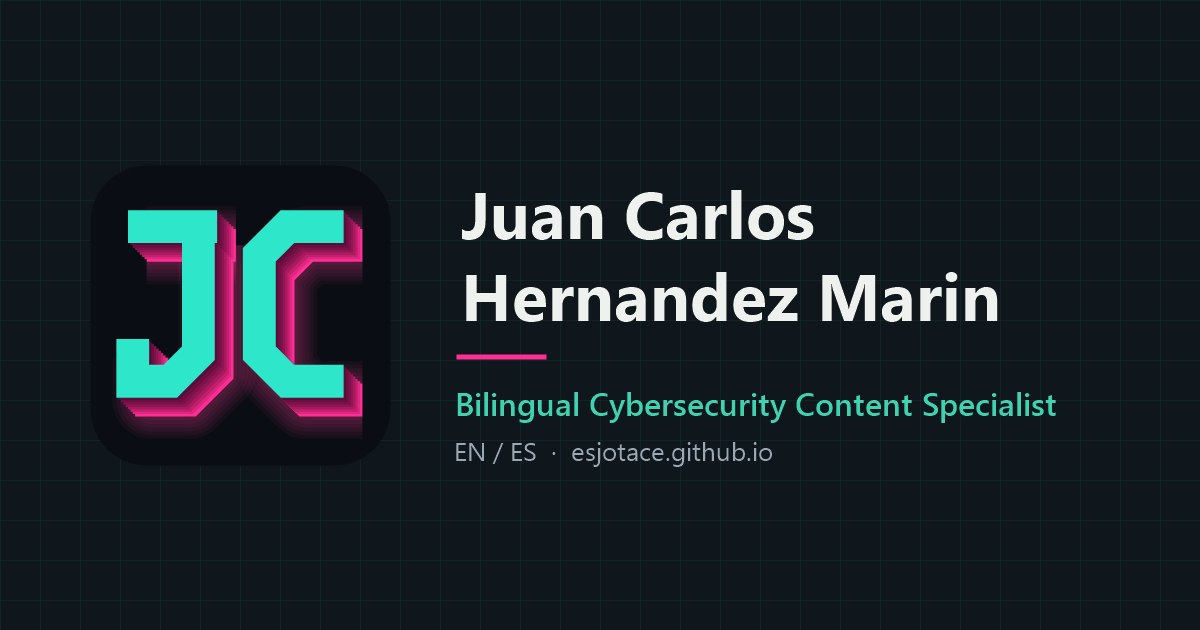
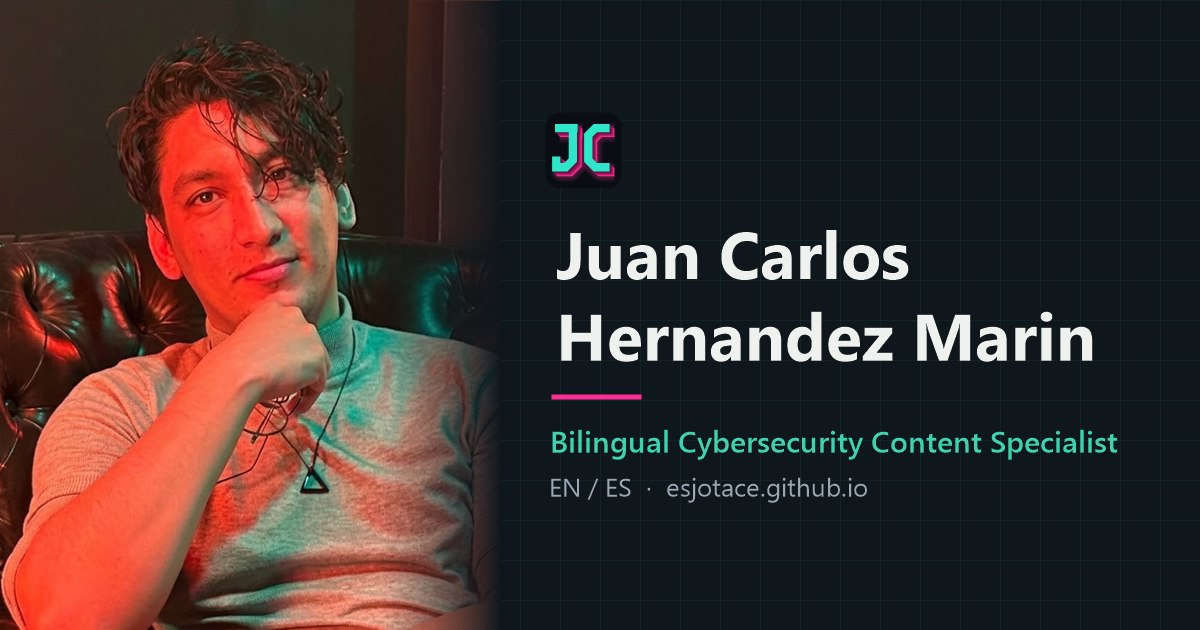
Add photos, thumbnails, lazy loading and keyboard fixes
- Preview card uses a photo; recommenders get round photos
- 600px infographic thumbnails; lazy loading and sizes on images
- Lightbox keeps focus on Close and returns it; screenshots open by keyboard
- Theme toggle reports its state with aria-pressed

diff --git a/index.html b/index.html
@@ -39,7 +39,7 @@
 html{scroll-behavior:smooth}
 body{margin:0;background:var(--bg);color:var(--ink);font:17px/1.6 Georgia,"Iowan Old Style","Palatino Linotype",serif;-webkit-font-smoothing:antialiased}
 a{color:inherit}
-img{max-width:100%}
+img{max-width:100%;height:auto}
 .sans{font-family:system-ui,-apple-system,"Segoe UI",Roboto,Helvetica,Arial,sans-serif}
 .wrap{max-width:1080px;margin:0 auto;padding-left:24px;padding-right:24px}
 @media(max-width:480px){.wrap{padding-left:16px;padding-right:16px}}
@@ -93,6 +93,7 @@ h2{font-size:clamp(28px,4vw,40px);letter-spacing:-.015em;margin:0 0 10px;line-he
 .proof-body > p strong{color:var(--ink)}
 .slide{margin:0 0 16px}
 .slide[hidden]{display:none}
+.slide .zoom{display:block;width:100%;padding:0;border:0;background:none;border-radius:8px;cursor:zoom-in}
 .slide img{display:block;width:100%;height:auto;aspect-ratio:1400/750;object-fit:contain;object-position:top;background:#202124;border-radius:8px;cursor:zoom-in}
 .slide figcaption{margin-top:8px;font-size:14px;color:var(--muted)}
 .slide-nav{display:flex;align-items:center;gap:12px}
@@ -135,7 +136,8 @@ footer{padding:64px 0 56px;margin-top:76px;border-top:1px solid var(--line)}
 .quote{margin:0;background:var(--card);border:1px solid var(--line);border-radius:14px;padding:24px;box-shadow:var(--shadow);display:flex;flex-direction:column;gap:14px}
 .quote blockquote{margin:0;font-size:17px;line-height:1.55}
 .quote blockquote::before{content:"“";display:block;font-size:44px;line-height:.6;color:var(--accent);margin-bottom:6px}
-.quote figcaption{margin-top:auto;font-size:14px;color:var(--muted)}
+.quote figcaption{margin-top:auto;font-size:14px;color:var(--muted);display:flex;align-items:center;gap:12px}
+.quote .avatar{width:48px;height:48px;border-radius:50%;object-fit:cover;flex:none;border:2px solid var(--line)}
 .quote figcaption b{display:block;color:var(--ink);font-size:15px}
 .quote details{font-size:14px;color:var(--muted)}
 .quote summary{cursor:pointer;color:var(--accent);font-weight:600}
@@ -156,7 +158,7 @@ footer{padding:64px 0 56px;margin-top:76px;border-top:1px solid var(--line)}
     <a class="brand" href="#top">Juan Carlos Hernandez Marin</a>
     <nav aria-label="Sections">
       <a href="#results">Results</a><a href="#recommendations">References</a><a href="#library">Library</a><a href="#playbooks">Playbooks</a><a href="#design">Infographics</a><a href="#experience">Experience</a><a href="#projects">Projects</a><a href="#contact">Contact</a>
-      <button class="toggle" id="theme" aria-label="Switch light or dark theme">Theme</button>
+      <button class="toggle" id="theme" aria-label="Dark theme" aria-pressed="false">Theme</button>
     </nav>
   </div>
 </header>
@@ -228,11 +230,11 @@ footer{padding:64px 0 56px;margin-top:76px;border-top:1px solid var(--line)}
           <p><strong>Case study: making Prey the go-to source on Chile's cybersecurity and data protection laws.</strong> I led Prey's Spanish content on Law 21.663 (cybersecurity framework) and Law 21.719 (personal data protection), written for three kinds of search: Google results (SEO), answer boxes (AEO) and AI assistants (GEO). The goal was for Prey to be the source people found when they asked what these laws mean for them. Today Google's AI Overviews cite Prey for "ley 21663 que es" and "ley 21719 que es", and ChatGPT has cited the same content. Results vary by query and day.</p>
           <div class="slides">
             <figure class="slide">
-              <img src="assets/ai-overview.jpg" alt="Google AI Overview answering 'ley 21663 que es', citing Prey Project as a source" data-lb>
+              <button class="zoom" data-src="assets/ai-overview.jpg" aria-label="Enlarge screenshot: ley 21663 que es"><img src="assets/ai-overview.jpg" width="1400" height="750" loading="lazy" alt="Google AI Overview answering 'ley 21663 que es', citing Prey Project as a source"></button>
               <figcaption class="sans">Google search: "ley 21663 que es" (cybersecurity framework law)</figcaption>
             </figure>
             <figure class="slide">
-              <img src="assets/ai-overview-21719.jpg" alt="Google AI Overview answering 'ley 21719 que es', citing Prey Project as a source" data-lb>
+              <button class="zoom" data-src="assets/ai-overview-21719.jpg" aria-label="Enlarge screenshot: ley 21719 que es"><img src="assets/ai-overview-21719.jpg" width="1377" height="622" loading="lazy" alt="Google AI Overview answering 'ley 21719 que es', citing Prey Project as a source"></button>
               <figcaption class="sans">Google search: "ley 21719 que es" (data protection law)</figcaption>
             </figure>
           </div>
@@ -259,21 +261,21 @@ footer{padding:64px 0 56px;margin-top:76px;border-top:1px solid var(--line)}
             <p style="margin:0 0 12px">A highlight was a set of CMMC policy templates he created. Instead of just restating the framework requirements, he went above and beyond, learning the framework well enough to include practical security tips on how organizations could actually comply.</p>
             <p style="margin:0 0 12px">Juan can independently research and master complex technical topics and turn that knowledge into actionable guidance. I’d recommend him to any team that needs content that’s both technically sound and genuinely valuable.</p>
           </blockquote>
-          <figcaption class="sans"><b>Elliott Harnagel</b>Product &amp; Compliance Experience Strategist, Strike Graph</figcaption>
+          <figcaption class="sans"><img class="avatar" src="assets/people/elliott-harnagel.jpg" width="120" height="120" loading="lazy" alt=""><span><b>Elliott Harnagel</b>Product &amp; Compliance Experience Strategist, Strike Graph</span></figcaption>
         </figure>
         <figure class="quote">
           <blockquote>
             <p style="margin:0 0 12px">I had the pleasure of working with Juan Carlos, an exceptional professional in cybersecurity and technical content creation. His ability to communicate complex topics clearly and engagingly sets him apart. He also shows great commitment, proactivity and attention to detail in every project. I strongly recommend Juan to any team looking for a cybersecurity specialist with solid communication and content strategy skills.</p>
           </blockquote>
           <details class="sans"><summary>Translated from Spanish. Read the original</summary><p lang="es">Tuve el placer de trabajar con Juan Carlos, un profesional excepcional en el área de ciberseguridad y creación de contenido técnico. Su capacidad para comunicar temas complejos de forma clara y atractiva lo distingue. Además, demuestra gran compromiso, proactividad y atención al detalle en cada proyecto. Recomiendo ampliamente a Juan para cualquier equipo que busque un especialista en ciberseguridad con sólidas habilidades de comunicación y estrategia de contenido.</p></details>
-          <figcaption class="sans"><b>Luis Ramos</b>IT Specialist, Argentina's health department</figcaption>
+          <figcaption class="sans"><img class="avatar" src="assets/people/luis-ramos.jpg" width="120" height="120" loading="lazy" alt=""><span><b>Luis Ramos</b>IT Specialist, Argentina's health department</span></figcaption>
         </figure>
         <figure class="quote">
           <blockquote>
             <p style="margin:0 0 12px">Juan is a cybersecurity professional. When I built a personal project, he advised me on vulnerabilities to cover, good practices for making my project public, and a full assessment of the platform at the end. Responsible, meticulous in his work and with a sharp eye for detail.</p>
           </blockquote>
           <details class="sans"><summary>Translated from Spanish. Read the original</summary><p lang="es">Juan es un profesional en materia de ciberseguridad. A la hora de hacer un proyecto personal, me asesoró en posibles vulnerabilidades por cubrir, buenas prácticas a la hora de hacer público mi proyecto y un assessment completo de la plataforma al término. Responsable, pulcro en su trabajo y con mucho ojo al detalle.</p></details>
-          <figcaption class="sans"><b>Fernando Andrés Escobar González</b>Frontend Developer, LATAM Airlines</figcaption>
+          <figcaption class="sans"><img class="avatar" src="assets/people/fernando-escobar.jpg" width="120" height="120" loading="lazy" alt=""><span><b>Fernando Andrés Escobar González</b>Frontend Developer, LATAM Airlines</span></figcaption>
         </figure>
       </div>
       <p class="sans" style="margin-top:18px"><a class="more" href="https://www.linkedin.com/in/juan-carlos-hernandez-marin-0b77b0150/details/recommendations/" target="_blank" rel="noopener">Read them on LinkedIn →</a></p>
@@ -290,7 +292,7 @@ footer{padding:64px 0 56px;margin-top:76px;border-top:1px solid var(--line)}
       <!-- Each guide is one <article class="doc">. data-topics (separated by |) and data-lang drive the filters. -->
       <div class="lib sans" id="lib">
         <article class="doc" data-topics="Security" data-lang="EN">
-          <button class="cover" data-src="assets/covers/control-alt-defend-data-breach-guide.jpg" aria-label="Enlarge cover: Control + Alt + Defend: A Data Breach Protection Guide"><img src="assets/covers/control-alt-defend-data-breach-guide.jpg" alt="Cover of Control + Alt + Defend: A Data Breach Protection Guide"></button>
+          <button class="cover" data-src="assets/covers/control-alt-defend-data-breach-guide.jpg" aria-label="Enlarge cover: Control + Alt + Defend: A Data Breach Protection Guide"><img src="assets/covers/control-alt-defend-data-breach-guide.jpg" width="520" height="673" loading="lazy" alt="Cover of Control + Alt + Defend: A Data Breach Protection Guide"></button>
           <div class="body">
             <div class="meta">Ebook · 35 pages · English</div>
             <h3>Control + Alt + Defend: A Data Breach Protection Guide</h3>
@@ -299,7 +301,7 @@ footer{padding:64px 0 56px;margin-top:76px;border-top:1px solid var(--line)}
           </div>
         </article>
         <article class="doc" data-topics="Security" data-lang="EN">
-          <button class="cover" data-src="assets/covers/no-fear-guide-to-the-dark-web.jpg" aria-label="Enlarge cover: A No-Fear Guide to the Dark Web Secrets"><img src="assets/covers/no-fear-guide-to-the-dark-web.jpg" alt="Cover of A No-Fear Guide to the Dark Web Secrets"></button>
+          <button class="cover" data-src="assets/covers/no-fear-guide-to-the-dark-web.jpg" aria-label="Enlarge cover: A No-Fear Guide to the Dark Web Secrets"><img src="assets/covers/no-fear-guide-to-the-dark-web.jpg" width="520" height="673" loading="lazy" alt="Cover of A No-Fear Guide to the Dark Web Secrets"></button>
           <div class="body">
             <div class="meta">Ebook · 25 pages · English</div>
             <h3>A No-Fear Guide to the Dark Web Secrets</h3>
@@ -308,7 +310,7 @@ footer{padding:64px 0 56px;margin-top:76px;border-top:1px solid var(--line)}
           </div>
         </article>
         <article class="doc" data-topics="Security|Compliance" data-lang="EN">
-          <button class="cover" data-src="assets/covers/lost-corporate-laptop-response-checklist.jpg" aria-label="Enlarge cover: Lost Corporate Laptop Response Checklist"><img src="assets/covers/lost-corporate-laptop-response-checklist.jpg" alt="Cover of Lost Corporate Laptop Response Checklist"></button>
+          <button class="cover" data-src="assets/covers/lost-corporate-laptop-response-checklist.jpg" aria-label="Enlarge cover: Lost Corporate Laptop Response Checklist"><img src="assets/covers/lost-corporate-laptop-response-checklist.jpg" width="520" height="673" loading="lazy" alt="Cover of Lost Corporate Laptop Response Checklist"></button>
           <div class="body">
             <div class="meta">Checklist · 19 pages · English</div>
             <h3>Lost Corporate Laptop Response Checklist</h3>
@@ -317,7 +319,7 @@ footer{padding:64px 0 56px;margin-top:76px;border-top:1px solid var(--line)}
           </div>
         </article>
         <article class="doc" data-topics="Security" data-lang="EN">
-          <button class="cover" data-src="assets/covers/end-of-year-security-readiness-checklist.jpg" aria-label="Enlarge cover: End-of-Year Security &amp; Readiness Checklist"><img src="assets/covers/end-of-year-security-readiness-checklist.jpg" alt="Cover of End-of-Year Security &amp; Readiness Checklist"></button>
+          <button class="cover" data-src="assets/covers/end-of-year-security-readiness-checklist.jpg" aria-label="Enlarge cover: End-of-Year Security &amp; Readiness Checklist"><img src="assets/covers/end-of-year-security-readiness-checklist.jpg" width="520" height="673" loading="lazy" alt="Cover of End-of-Year Security &amp; Readiness Checklist"></button>
           <div class="body">
             <div class="meta">Checklist · 14 pages · English</div>
             <h3>End-of-Year Security &amp; Readiness Checklist</h3>
@@ -326,7 +328,7 @@ footer{padding:64px 0 56px;margin-top:76px;border-top:1px solid var(--line)}
           </div>
         </article>
         <article class="doc" data-topics="Compliance" data-lang="ES">
-          <button class="cover" data-src="assets/covers/guia-ley-21719-proteccion-de-datos.jpg" aria-label="Enlarge cover: Guía de cumplimiento de la Ley de Protección de Datos (Ley 21.719)"><img src="assets/covers/guia-ley-21719-proteccion-de-datos.jpg" alt="Cover of Guía de cumplimiento de la Ley de Protección de Datos (Ley 21.719)"></button>
+          <button class="cover" data-src="assets/covers/guia-ley-21719-proteccion-de-datos.jpg" aria-label="Enlarge cover: Guía de cumplimiento de la Ley de Protección de Datos (Ley 21.719)"><img src="assets/covers/guia-ley-21719-proteccion-de-datos.jpg" width="520" height="673" loading="lazy" alt="Cover of Guía de cumplimiento de la Ley de Protección de Datos (Ley 21.719)"></button>
           <div class="body">
             <div class="meta">Guide · 36 pages · Español</div>
             <h3>Guía de cumplimiento de la Ley de Protección de Datos (Ley 21.719)</h3>
@@ -335,7 +337,7 @@ footer{padding:64px 0 56px;margin-top:76px;border-top:1px solid var(--line)}
           </div>
         </article>
         <article class="doc" data-topics="Compliance|Education" data-lang="EN">
-          <button class="cover" data-src="assets/covers/fcc-cybersecurity-pilot-program-checklist.jpg" aria-label="Enlarge cover: FCC Cybersecurity Pilot Program: Application Readiness Checklist"><img src="assets/covers/fcc-cybersecurity-pilot-program-checklist.jpg" alt="Cover of FCC Cybersecurity Pilot Program: Application Readiness Checklist"></button>
+          <button class="cover" data-src="assets/covers/fcc-cybersecurity-pilot-program-checklist.jpg" aria-label="Enlarge cover: FCC Cybersecurity Pilot Program: Application Readiness Checklist"><img src="assets/covers/fcc-cybersecurity-pilot-program-checklist.jpg" width="520" height="673" loading="lazy" alt="Cover of FCC Cybersecurity Pilot Program: Application Readiness Checklist"></button>
           <div class="body">
             <div class="meta">Checklist · 9 pages · English</div>
             <h3>FCC Cybersecurity Pilot Program: Application Readiness Checklist</h3>
@@ -344,7 +346,7 @@ footer{padding:64px 0 56px;margin-top:76px;border-top:1px solid var(--line)}
           </div>
         </article>
         <article class="doc" data-topics="Compliance|Education" data-lang="EN">
-          <button class="cover" data-src="assets/covers/k12-cybersecurity-strategy.jpg" aria-label="Enlarge cover: Protect the Keys to the Castle: A Cybersecurity Strategy for K-12"><img src="assets/covers/k12-cybersecurity-strategy.jpg" alt="Cover of Protect the Keys to the Castle: A Cybersecurity Strategy for K-12"></button>
+          <button class="cover" data-src="assets/covers/k12-cybersecurity-strategy.jpg" aria-label="Enlarge cover: Protect the Keys to the Castle: A Cybersecurity Strategy for K-12"><img src="assets/covers/k12-cybersecurity-strategy.jpg" width="520" height="402" loading="lazy" alt="Cover of Protect the Keys to the Castle: A Cybersecurity Strategy for K-12"></button>
           <div class="body">
             <div class="meta">Ebook · 44 pages · English</div>
             <h3>Protect the Keys to the Castle: A Cybersecurity Strategy for K-12</h3>
@@ -353,7 +355,7 @@ footer{padding:64px 0 56px;margin-top:76px;border-top:1px solid var(--line)}
           </div>
         </article>
         <article class="doc" data-topics="Education|Compliance" data-lang="EN">
-          <button class="cover" data-src="assets/covers/cybersecurity-edu-blueprint-checklist.jpg" aria-label="Enlarge cover: Cybersecurity EDU Blueprint Checklist"><img src="assets/covers/cybersecurity-edu-blueprint-checklist.jpg" alt="Cover of Cybersecurity EDU Blueprint Checklist"></button>
+          <button class="cover" data-src="assets/covers/cybersecurity-edu-blueprint-checklist.jpg" aria-label="Enlarge cover: Cybersecurity EDU Blueprint Checklist"><img src="assets/covers/cybersecurity-edu-blueprint-checklist.jpg" width="520" height="312" loading="lazy" alt="Cover of Cybersecurity EDU Blueprint Checklist"></button>
           <div class="body">
             <div class="meta">Checklist · 4 pages · English</div>
             <h3>Cybersecurity EDU Blueprint Checklist</h3>
@@ -362,7 +364,7 @@ footer{padding:64px 0 56px;margin-top:76px;border-top:1px solid var(--line)}
           </div>
         </article>
         <article class="doc" data-topics="Education|Security" data-lang="EN">
-          <button class="cover" data-src="assets/covers/k12-cybersecurity-challenges.jpg" aria-label="Enlarge cover: K-12 Cybersecurity Challenges: Battling Cyber Threats"><img src="assets/covers/k12-cybersecurity-challenges.jpg" alt="Cover of K-12 Cybersecurity Challenges: Battling Cyber Threats"></button>
+          <button class="cover" data-src="assets/covers/k12-cybersecurity-challenges.jpg" aria-label="Enlarge cover: K-12 Cybersecurity Challenges: Battling Cyber Threats"><img src="assets/covers/k12-cybersecurity-challenges.jpg" width="520" height="402" loading="lazy" alt="Cover of K-12 Cybersecurity Challenges: Battling Cyber Threats"></button>
           <div class="body">
             <div class="meta">Ebook · 33 pages · English</div>
             <h3>K-12 Cybersecurity Challenges: Battling Cyber Threats</h3>
@@ -371,7 +373,7 @@ footer{padding:64px 0 56px;margin-top:76px;border-top:1px solid var(--line)}
           </div>
         </article>
         <article class="doc" data-topics="Education" data-lang="EN">
-          <button class="cover" data-src="assets/covers/simplify-1-1-student-device-management.jpg" aria-label="Enlarge cover: Simplify 1:1 Student Device Management"><img src="assets/covers/simplify-1-1-student-device-management.jpg" alt="Cover of Simplify 1:1 Student Device Management"></button>
+          <button class="cover" data-src="assets/covers/simplify-1-1-student-device-management.jpg" aria-label="Enlarge cover: Simplify 1:1 Student Device Management"><img src="assets/covers/simplify-1-1-student-device-management.jpg" width="520" height="673" loading="lazy" alt="Cover of Simplify 1:1 Student Device Management"></button>
           <div class="body">
             <div class="meta">Guide · 10 pages · English</div>
             <h3>Simplify 1:1 Student Device Management</h3>
@@ -380,7 +382,7 @@ footer{padding:64px 0 56px;margin-top:76px;border-top:1px solid var(--line)}
           </div>
         </article>
         <article class="doc" data-topics="Education" data-lang="EN">
-          <button class="cover" data-src="assets/covers/start-school-year-1-1-device-program.jpg" aria-label="Enlarge cover: How to Stop Your Next 1:1 Program from Becoming Device Chaos"><img src="assets/covers/start-school-year-1-1-device-program.jpg" alt="Cover of How to Stop Your Next 1:1 Program from Becoming Device Chaos"></button>
+          <button class="cover" data-src="assets/covers/start-school-year-1-1-device-program.jpg" aria-label="Enlarge cover: How to Stop Your Next 1:1 Program from Becoming Device Chaos"><img src="assets/covers/start-school-year-1-1-device-program.jpg" width="520" height="673" loading="lazy" alt="Cover of How to Stop Your Next 1:1 Program from Becoming Device Chaos"></button>
           <div class="body">
             <div class="meta">Guide · 12 pages · English</div>
             <h3>How to Stop Your Next 1:1 Program from Becoming Device Chaos</h3>
@@ -389,7 +391,7 @@ footer{padding:64px 0 56px;margin-top:76px;border-top:1px solid var(--line)}
           </div>
         </article>
         <article class="doc" data-topics="Buyer's guides" data-lang="EN">
-          <button class="cover" data-src="assets/covers/device-management-buyers-guide.jpg" aria-label="Enlarge cover: Device Management Buyer's Guide"><img src="assets/covers/device-management-buyers-guide.jpg" alt="Cover of Device Management Buyer's Guide"></button>
+          <button class="cover" data-src="assets/covers/device-management-buyers-guide.jpg" aria-label="Enlarge cover: Device Management Buyer's Guide"><img src="assets/covers/device-management-buyers-guide.jpg" width="520" height="673" loading="lazy" alt="Cover of Device Management Buyer's Guide"></button>
           <div class="body">
             <div class="meta">Buyer's guide · 13 pages · English</div>
             <h3>Device Management Buyer's Guide</h3>
@@ -398,7 +400,7 @@ footer{padding:64px 0 56px;margin-top:76px;border-top:1px solid var(--line)}
           </div>
         </article>
         <article class="doc" data-topics="Buyer's guides" data-lang="EN">
-          <button class="cover" data-src="assets/covers/msp-buyers-guide.jpg" aria-label="Enlarge cover: Buyer's Guide for Managed Service Providers"><img src="assets/covers/msp-buyers-guide.jpg" alt="Cover of Buyer's Guide for Managed Service Providers"></button>
+          <button class="cover" data-src="assets/covers/msp-buyers-guide.jpg" aria-label="Enlarge cover: Buyer's Guide for Managed Service Providers"><img src="assets/covers/msp-buyers-guide.jpg" width="520" height="673" loading="lazy" alt="Cover of Buyer's Guide for Managed Service Providers"></button>
           <div class="body">
             <div class="meta">Buyer's guide · 12 pages · English</div>
             <h3>Buyer's Guide for Managed Service Providers</h3>
@@ -407,7 +409,7 @@ footer{padding:64px 0 56px;margin-top:76px;border-top:1px solid var(--line)}
           </div>
         </article>
         <article class="doc" data-topics="Buyer's guides|Security" data-lang="EN">
-          <button class="cover" data-src="assets/covers/laptop-tracking-software-checklist.jpg" aria-label="Enlarge cover: Feature Comparison Checklist: Laptop Tracking Software"><img src="assets/covers/laptop-tracking-software-checklist.jpg" alt="Cover of Feature Comparison Checklist: Laptop Tracking Software"></button>
+          <button class="cover" data-src="assets/covers/laptop-tracking-software-checklist.jpg" aria-label="Enlarge cover: Feature Comparison Checklist: Laptop Tracking Software"><img src="assets/covers/laptop-tracking-software-checklist.jpg" width="520" height="673" loading="lazy" alt="Cover of Feature Comparison Checklist: Laptop Tracking Software"></button>
           <div class="body">
             <div class="meta">Checklist · 4 pages · English</div>
             <h3>Feature Comparison Checklist: Laptop Tracking Software</h3>
@@ -416,7 +418,7 @@ footer{padding:64px 0 56px;margin-top:76px;border-top:1px solid var(--line)}
           </div>
         </article>
         <article class="doc" data-topics="Security|Buyer's guides" data-lang="EN">
-          <button class="cover" data-src="assets/covers/device-tracking-methods-guide.jpg" aria-label="Enlarge cover: Device Tracking Methods and Where to Find Them"><img src="assets/covers/device-tracking-methods-guide.jpg" alt="Cover of Device Tracking Methods and Where to Find Them"></button>
+          <button class="cover" data-src="assets/covers/device-tracking-methods-guide.jpg" aria-label="Enlarge cover: Device Tracking Methods and Where to Find Them"><img src="assets/covers/device-tracking-methods-guide.jpg" width="520" height="673" loading="lazy" alt="Cover of Device Tracking Methods and Where to Find Them"></button>
           <div class="body">
             <div class="meta">Guide · 17 pages · English</div>
             <h3>Device Tracking Methods and Where to Find Them</h3>
@@ -425,7 +427,7 @@ footer{padding:64px 0 56px;margin-top:76px;border-top:1px solid var(--line)}
           </div>
         </article>
         <article class="doc" data-topics="Research|Security" data-lang="ES">
-          <button class="cover" data-src="assets/covers/shift-ciberseguridad-remoticidad-latam.jpg" aria-label="Enlarge cover: SHIFT: La ciberseguridad y la remoticidad en América Latina"><img src="assets/covers/shift-ciberseguridad-remoticidad-latam.jpg" alt="Cover of SHIFT: La ciberseguridad y la remoticidad en América Latina"></button>
+          <button class="cover" data-src="assets/covers/shift-ciberseguridad-remoticidad-latam.jpg" aria-label="Enlarge cover: SHIFT: La ciberseguridad y la remoticidad en América Latina"><img src="assets/covers/shift-ciberseguridad-remoticidad-latam.jpg" width="520" height="402" loading="lazy" alt="Cover of SHIFT: La ciberseguridad y la remoticidad en América Latina"></button>
           <div class="body">
             <div class="meta">Research report · 39 pages · Español</div>
             <h3>SHIFT: La ciberseguridad y la remoticidad en América Latina</h3>
@@ -467,10 +469,10 @@ footer{padding:64px 0 56px;margin-top:76px;border-top:1px solid var(--line)}
       <p class="sub">One-page explainers on credential risk and basic security controls. Click to enlarge.</p>
       <!-- Each infographic is one <button>: data-src is the image the lightbox opens. -->
       <div class="gallery sans">
-        <button data-src="assets/info-stake.jpg" aria-label="Enlarge: What's at stake when credentials leak?"><img src="assets/info-stake.jpg" alt="What's at stake when credentials leak?"><span>What's at stake when credentials leak?</span></button>
-        <button data-src="assets/info-perimeter.jpg" aria-label="Enlarge: Credentials are the new perimeter"><img src="assets/info-perimeter.jpg" alt="Credentials are the new perimeter"><span>Credentials are the new perimeter</span></button>
-        <button data-src="assets/info-thirdparty.jpg" aria-label="Enlarge: Third-party breach? You're still responsible."><img src="assets/info-thirdparty.jpg" alt="Third-party breach? You're still responsible."><span>Third-party breach? You're still responsible.</span></button>
-        <button data-src="assets/info-protected.jpg" aria-label="Enlarge: Is your company protected?"><img src="assets/info-protected.jpg" alt="Is your company protected?"><span>Is your company protected?</span></button>
+        <button data-src="assets/info-stake.jpg" aria-label="Enlarge: What's at stake when credentials leak?"><img src="assets/thumbs/info-stake.jpg" width="600" height="750" loading="lazy" alt="What's at stake when credentials leak?"><span>What's at stake when credentials leak?</span></button>
+        <button data-src="assets/info-perimeter.jpg" aria-label="Enlarge: Credentials are the new perimeter"><img src="assets/thumbs/info-perimeter.jpg" width="600" height="750" loading="lazy" alt="Credentials are the new perimeter"><span>Credentials are the new perimeter</span></button>
+        <button data-src="assets/info-thirdparty.jpg" aria-label="Enlarge: Third-party breach? You're still responsible."><img src="assets/thumbs/info-thirdparty.jpg" width="600" height="750" loading="lazy" alt="Third-party breach? You're still responsible."><span>Third-party breach? You're still responsible.</span></button>
+        <button data-src="assets/info-protected.jpg" aria-label="Enlarge: Is your company protected?"><img src="assets/thumbs/info-protected.jpg" width="600" height="749" loading="lazy" alt="Is your company protected?"><span>Is your company protected?</span></button>
       </div>
       <p class="sans" style="margin-top:18px"><a class="more" href="assets/Juan-Carlos-Hernandez-Marin-Portfolio.pdf" download>Download all four as a PDF →</a></p>
     </section>
@@ -595,12 +597,17 @@ makeChips($('lib-langs'), [['All languages','All'],['English','EN'],['Español',
 apply();
 
 /* lightbox */
-const lb = $('lb'), lbImg = lb.querySelector('img');
-function openLb(src, alt){ lbImg.src = src; lbImg.alt = alt||''; lb.classList.add('open'); lb.querySelector('button').focus(); }
+const lb = $('lb'), lbImg = lb.querySelector('img'), lbClose = lb.querySelector('button');
+let lbReturn = null;
+function openLb(src, alt){ lbReturn = document.activeElement; lbImg.src = src; lbImg.alt = alt||''; lb.classList.add('open'); lbClose.focus(); }
+function closeLb(){ lb.classList.remove('open'); if (lbReturn) lbReturn.focus(); }
 document.querySelectorAll('[data-src]').forEach(b => b.onclick = () => openLb(b.dataset.src, b.querySelector('img')?.alt));
-document.querySelectorAll('img[data-lb]').forEach(i => i.onclick = () => openLb(i.src, i.alt));
-lb.onclick = e => { if (e.target !== lbImg) lb.classList.remove('open'); };
-document.addEventListener('keydown', e => { if (e.key==='Escape') lb.classList.remove('open'); });
+lb.onclick = e => { if (e.target !== lbImg) closeLb(); };
+document.addEventListener('keydown', e => {
+  if (!lb.classList.contains('open')) return;
+  if (e.key === 'Escape') closeLb();
+  if (e.key === 'Tab') { e.preventDefault(); lbClose.focus(); } // Close is the only control, so Tab stays on it
+});
 
 /* proof screenshots: show one at a time with previous/next */
 const slides = [...document.querySelectorAll('.slide')], slideNav = $('slide-nav');
@@ -615,13 +622,17 @@ slideNav.hidden = false;
 showSlide(0);
 
 /* theme */
-const root = document.documentElement;
+const root = document.documentElement, themeBtn = $('theme'), darkQuery = matchMedia('(prefers-color-scheme: dark)');
+const isDark = () => root.dataset.theme ? root.dataset.theme==='dark' : darkQuery.matches;
+const syncTheme = () => themeBtn.setAttribute('aria-pressed', isDark());
 try { const s = localStorage.getItem('theme'); if (s) root.dataset.theme = s; } catch(e){}
-$('theme').onclick = () => {
-  const dark = root.dataset.theme ? root.dataset.theme==='dark' : matchMedia('(prefers-color-scheme: dark)').matches;
-  root.dataset.theme = dark ? 'light' : 'dark';
+themeBtn.onclick = () => {
+  root.dataset.theme = isDark() ? 'light' : 'dark';
   try { localStorage.setItem('theme', root.dataset.theme); } catch(e){}
+  syncTheme();
 };
+darkQuery.addEventListener('change', syncTheme);
+syncTheme();
 </script>
 </body>
 </html>
